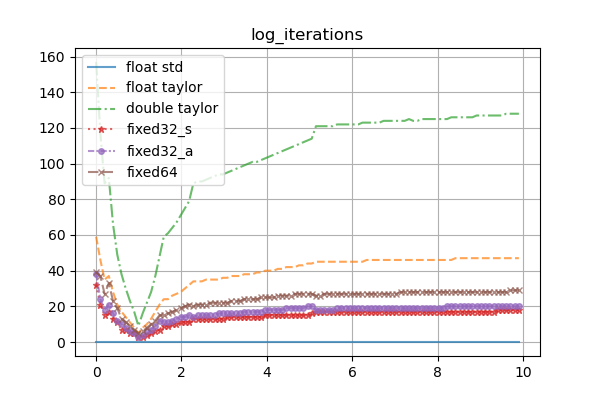
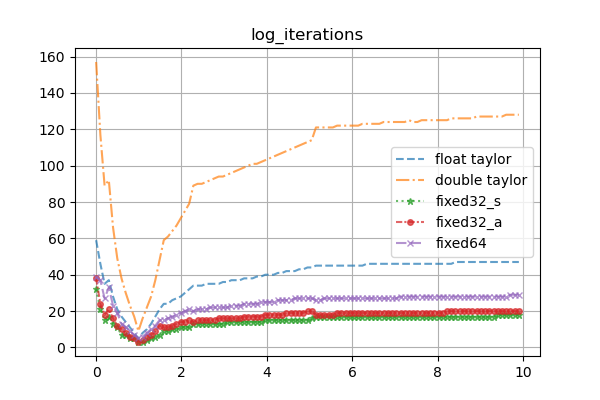
Updated Readme, unified plots

Changed region(s): [[0.06, 0.12, 0.9, 0.9], [0.36, 0.27, 0.9, 0.36], [0.66, 0.54, 0.69, 0.57]]

diff --git a/src/lib/fixedpoint.h b/src/lib/fixedpoint.h
@@ -131,11 +131,16 @@ namespace fixedpoint_helpers {
         union {F x; I i;} data;
     };
 
+    #ifdef FIXED_POINT_IEEE754_ALWAYS_MULTIPLICATE
     template<typename F, int expected_size>
-    struct float_to_fraction_use_multiplication : std::integral_constant<bool, std::numeric_limits<F>::is_iec559 && sizeof(F) == expected_size && is_little_endian::value && (cpp_version::value > 11)> {};
+    struct ieee754_to_fraction_use_cheat : std::integral_constant<bool, false> {};
+    #else
+    template<typename F, int expected_size>
+    struct ieee754_to_fraction_use_cheat : std::integral_constant<bool, std::numeric_limits<F>::is_iec559 && sizeof(F) == expected_size && is_little_endian::value && (cpp_version::value > 11)> {};
+    #endif
 
     template<typename R, typename F, unsigned expected_size, unsigned fraction, unsigned exponents, int accuracy, typename int_buf = typename std::conditional<fraction <= 32, std::uint32_t, std::uint64_t>::type>
-    static constexpr typename std::enable_if<float_to_fraction_use_multiplication<F, expected_size>::value, R>::type
+    static constexpr typename std::enable_if<ieee754_to_fraction_use_cheat<F, expected_size>::value, R>::type
     buf_from_ieee754_generic(Union2<F, typename std::make_unsigned<int_buf>::type> input) noexcept {
         using u_int_buf = typename std::make_unsigned<int_buf>::type;
         using s_int_buf = typename std::make_signed<int_buf>::type;
@@ -152,7 +157,7 @@ namespace fixedpoint_helpers {
     }
 
     template<typename R, typename F, unsigned expected_size, unsigned fraction, unsigned exponents, int accuracy, typename int_buf = typename std::conditional<fraction <= 32, std::uint32_t, std::uint64_t>::type>
-    static constexpr typename std::enable_if<!float_to_fraction_use_multiplication<F, expected_size>::value, R>::type
+    static constexpr typename std::enable_if<!ieee754_to_fraction_use_cheat<F, expected_size>::value, R>::type
     buf_from_ieee754_generic(F x) noexcept {
         return x * ((R)1 << accuracy);
     }
@@ -203,6 +208,7 @@ namespace fixedpoint_helpers {
 
 
     using fixed_t = fixedpoint<std::make_signed<std::size_t>::type, fixedpoint_helpers::make_fast_int<typename std::make_signed<std::size_t>::type>::type, sizeof(std::size_t) * 4 - 1>;
+    using ufixed_t = fixedpoint<std::make_unsigned<std::size_t>::type, fixedpoint_helpers::make_fast_int<typename std::make_unsigned<std::size_t>::type>::type, sizeof(std::size_t) * 4 - 1>;
 
     template<typename T, typename T2=void, typename DEFAULT_TYPE=fixed_t, typename std::enable_if<is_fixedpoint<DEFAULT_TYPE>::value, void>::type* = nullptr>
     struct as_fixed : std::conditional<is_fixedpoint<T>::value, T, typename std::conditional<is_fixedpoint<T2>::value, T2, DEFAULT_TYPE>::type>::type {};
@@ -859,6 +865,10 @@ using ufixed8_s = fixedpoint<std::uint8_t, std::uint8_t>;
 using ufixed16_s = fixedpoint<std::uint16_t, std::uint16_t>;
 using ufixed32_s = fixedpoint<std::uint32_t, std::uint32_t>;
 using ufixed64_s = fixedpoint<std::uint64_t, std::uint64_t>;
+
+// other types
+using fixed_t = fixedpoint_helpers::fixed_t;
+using ufixed_t = fixedpoint_helpers::ufixed_t;
 
 
 #endif

diff --git a/plots/plot.py b/plots/plot.py
@@ -19,15 +19,16 @@ def load_data(filename, diffy=None):
         y = np.abs(y - diffy)
     return (x, y, cnt)
 
-def draw_plots(function, make_diff, log_scale, data_slice, plt_suffix=''):
+def draw_plots(function, make_diff, log_scale, data_slice, plt_suffix='', show_std=True):
     ref_x, ref_y, counts = load_data(f'double_std_{function}.txt') if make_diff else (None, None, None)
-    plt.figure(figsize=(6,4))
-    plt.plot(*load_data(f'float_std_{function}.txt', ref_y)[data_slice], label='float std', linestyle='-', alpha=0.7)
+    plt.figure(figsize=(6,4))    
     plt.plot(*load_data(f'float_taylor_{function}.txt', ref_y)[data_slice], label='float taylor', linestyle='--', alpha=0.7)
     plt.plot(*load_data(f'double_taylor_{function}.txt', ref_y)[data_slice], label='double taylor', linestyle='-.', alpha=0.7)
     plt.plot(*load_data(f'fixed32_s_taylor_{function}.txt', ref_y)[data_slice], label='fixed32_s', linestyle=':', alpha=0.7, marker='*', markersize=5)
     plt.plot(*load_data(f'fixed32_a_taylor_{function}.txt', ref_y)[data_slice], label='fixed32_a', linestyle=(0, (3, 1, 1, 1)), alpha=0.7, marker='o', markersize=4)
     plt.plot(*load_data(f'fixed64_taylor_{function}.txt', ref_y)[data_slice], label='fixed64', linestyle=(0, (5, 2)), alpha=0.7, marker='x', markersize=4)
+    if show_std:
+        plt.plot(*load_data(f'float_std_{function}.txt', ref_y)[data_slice], label='float std', linestyle='-', alpha=0.7)
     plt.title(function+plt_suffix)
     if log_scale:
         plt.yscale('log')
@@ -38,5 +39,5 @@ def draw_plots(function, make_diff, log_scale, data_slice, plt_suffix=''):
 
 
 for fun in functions:
-    draw_plots(fun, True, True, slice(None, 2), '')
-    draw_plots(fun, False, False, slice(None, None, 2), '_iterations')
+    draw_plots(fun, True, True, slice(None, 2), '', True)
+    draw_plots(fun, False, False, slice(None, None, 2), '_iterations', False)

diff --git a/Readme.md b/Readme.md
@@ -77,26 +77,21 @@ There are predefinied types:
         * ufixed32_s - unsigned 32 bit `T`, 32 bit type for `TC`, 15 fraction bits
         * ufixed64_s - unsigned 64 bit `T`, 64 bit type for `TC`, 31 fraction bits
 
-### Problem with operators
+* Other types (based on `std::size_t`)
 
-Due to possible inconsistency of result type on calculations of various fixedpoints both operands should be the same type. But it is not something that you must remember because the compiler will remind you.<br>
-The solution is to use casting, f.e.: 
-~~~
-fixed32 x = 7.35;
-fixed64 y = 21.37;
-std::cout << x + (fixed32)y << std::endl;
-std::cout << (fixed64)x + y << std::endl;
-~~~
+    * signed
+
+        * fixed_t - signed `std::size_t` for `T`, fast signed `std::size_t` for `TC`, `sizeof(std::size_t) * 4 - 1` fraction bits;
+
+    * unsigned
+
+        * ufixed_t - unsigned `std::size_t` for `T`, fast unsigned `std::size_t` for `TC`, `sizeof(std::size_t) * 4 - 1` fraction bits;
 
 ### Conversions from IEEE754
-All conversions from floats works by multiplying float / double variable by some constant and then casting it to an integer type. It could be faster by using one of the following functions:
 
-* from_ieee754
-* from_float
-* from_double
-
-all of them might be faster or slower - it depends on the target platform. **Results of these functions could be also incorrect so always check results on the new target.** Although some assertions were made to avoid errors and thus in case of detection of an unsupported float/double format, these functions will use "standard" multiplication.
-
+ Results of conversion from IEEE754 might be incorrect due to reading the numbers binary. 
+ Always check results on the new target.
+ In case of any errors use FIXED_POINT_IEEE754_ALWAYS_MULTIPLICATE macro.
 
 ## Test results
 
@@ -139,3 +134,13 @@ Differences with double and cmath as reference.<br>
 ![log plot](plots/plot_log.png)
 ![exp plot](plots/plot_exp.png)
 ![sqrt plot](plots/plot_sqrt.png)
+
+### Taylormath iterations 
+
+![asin plot](plots/plot_asin_iterations.png)
+![cos plot](plots/plot_cos_iterations.png)
+![sin plot](plots/plot_sin_iterations.png)
+![log plot](plots/plot_log_iterations.png)
+![exp plot](plots/plot_exp_iterations.png)
+![sqrt plot](plots/plot_sqrt_iterations.png)
+
